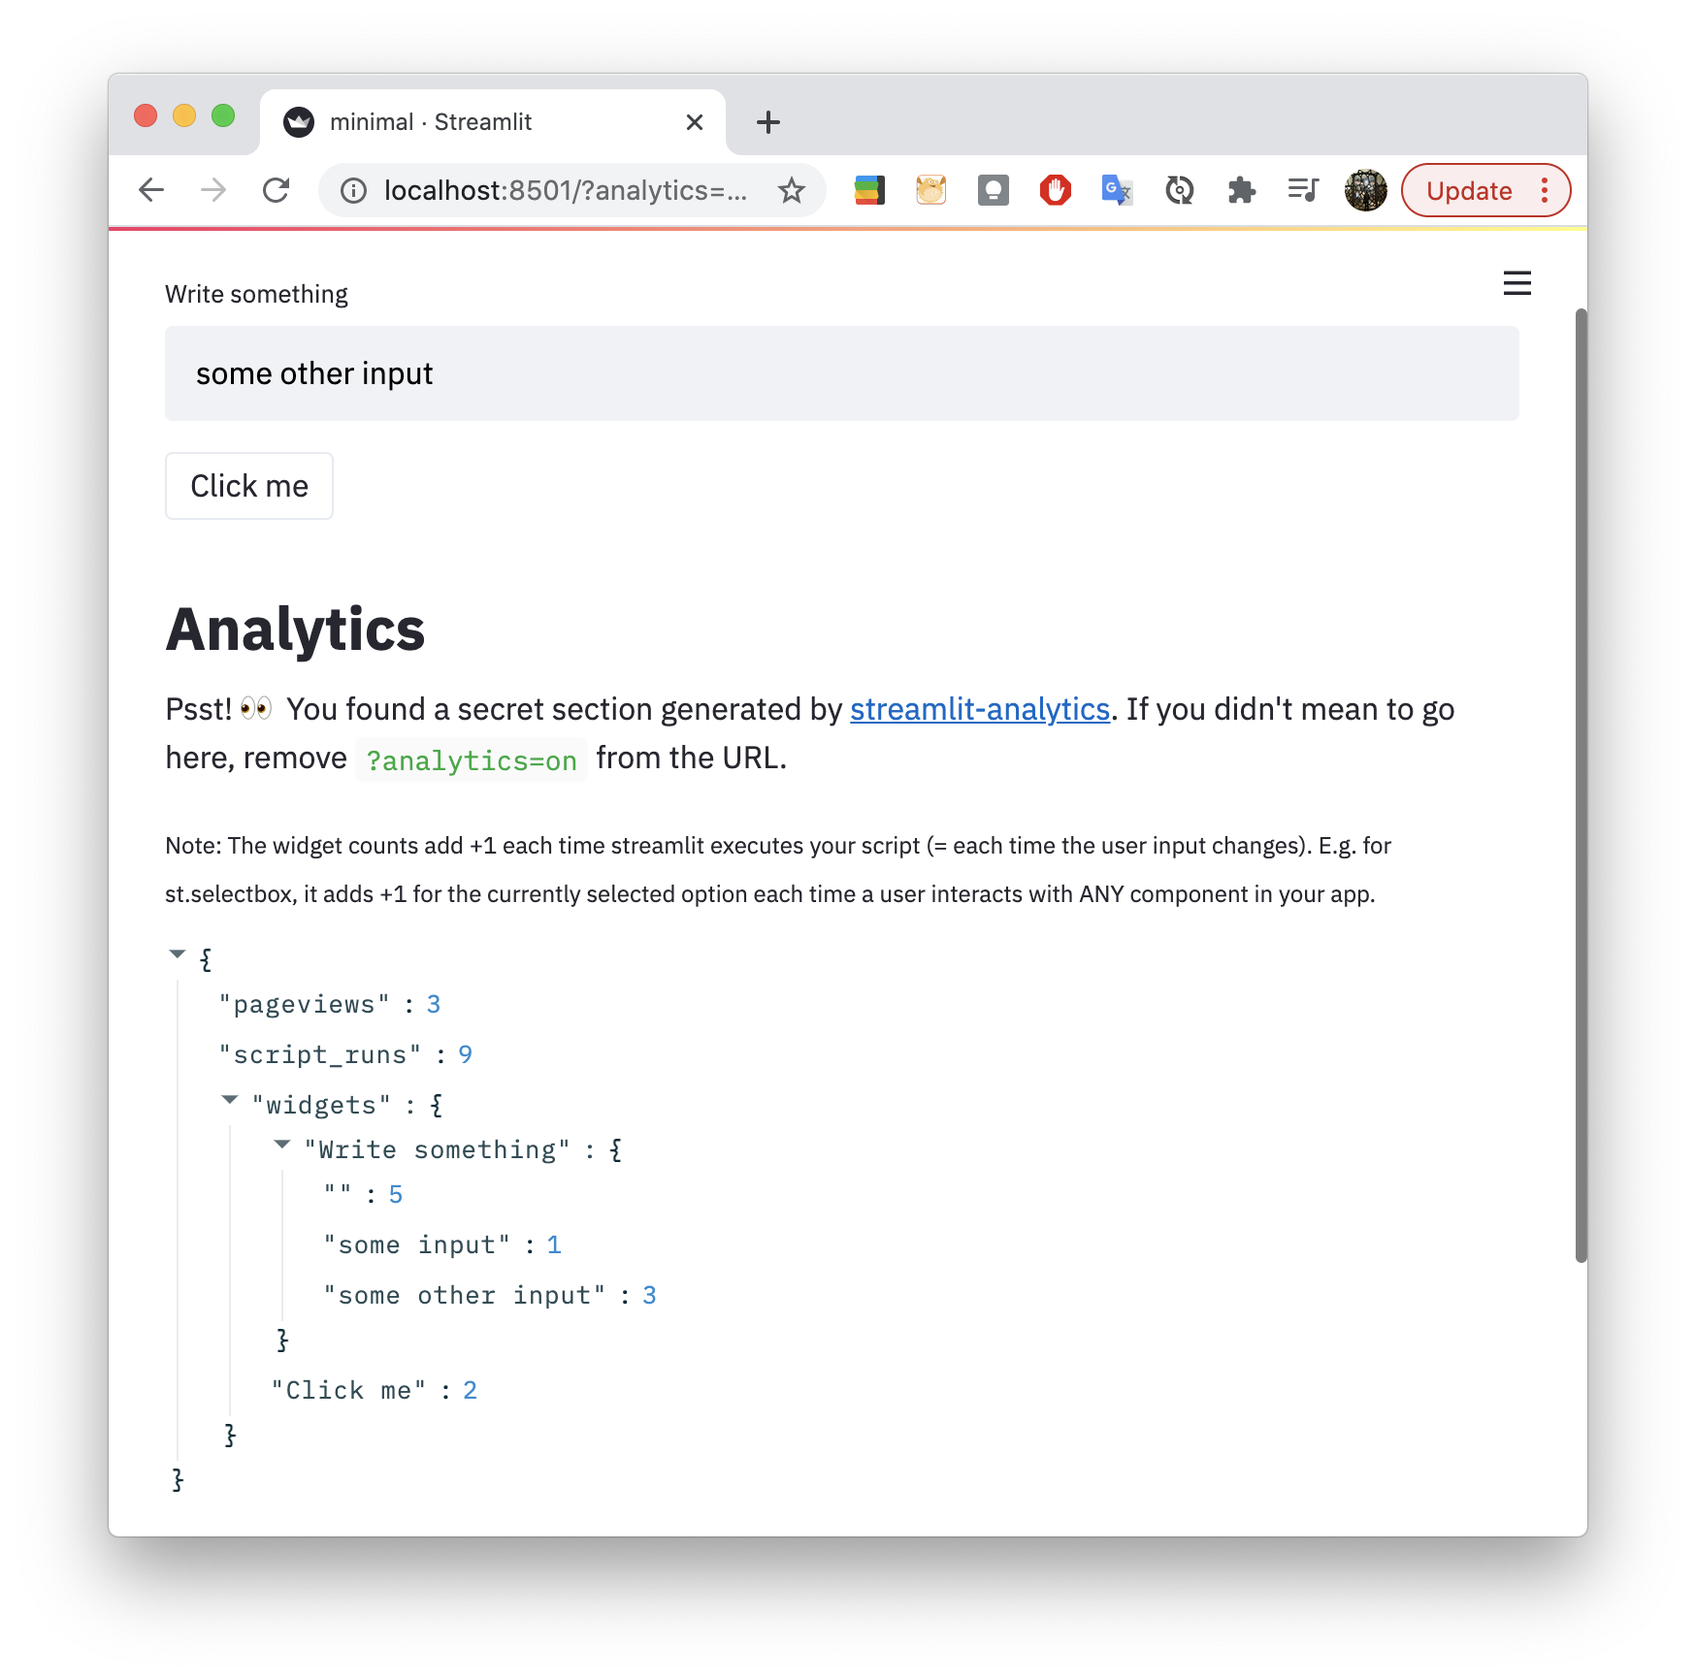
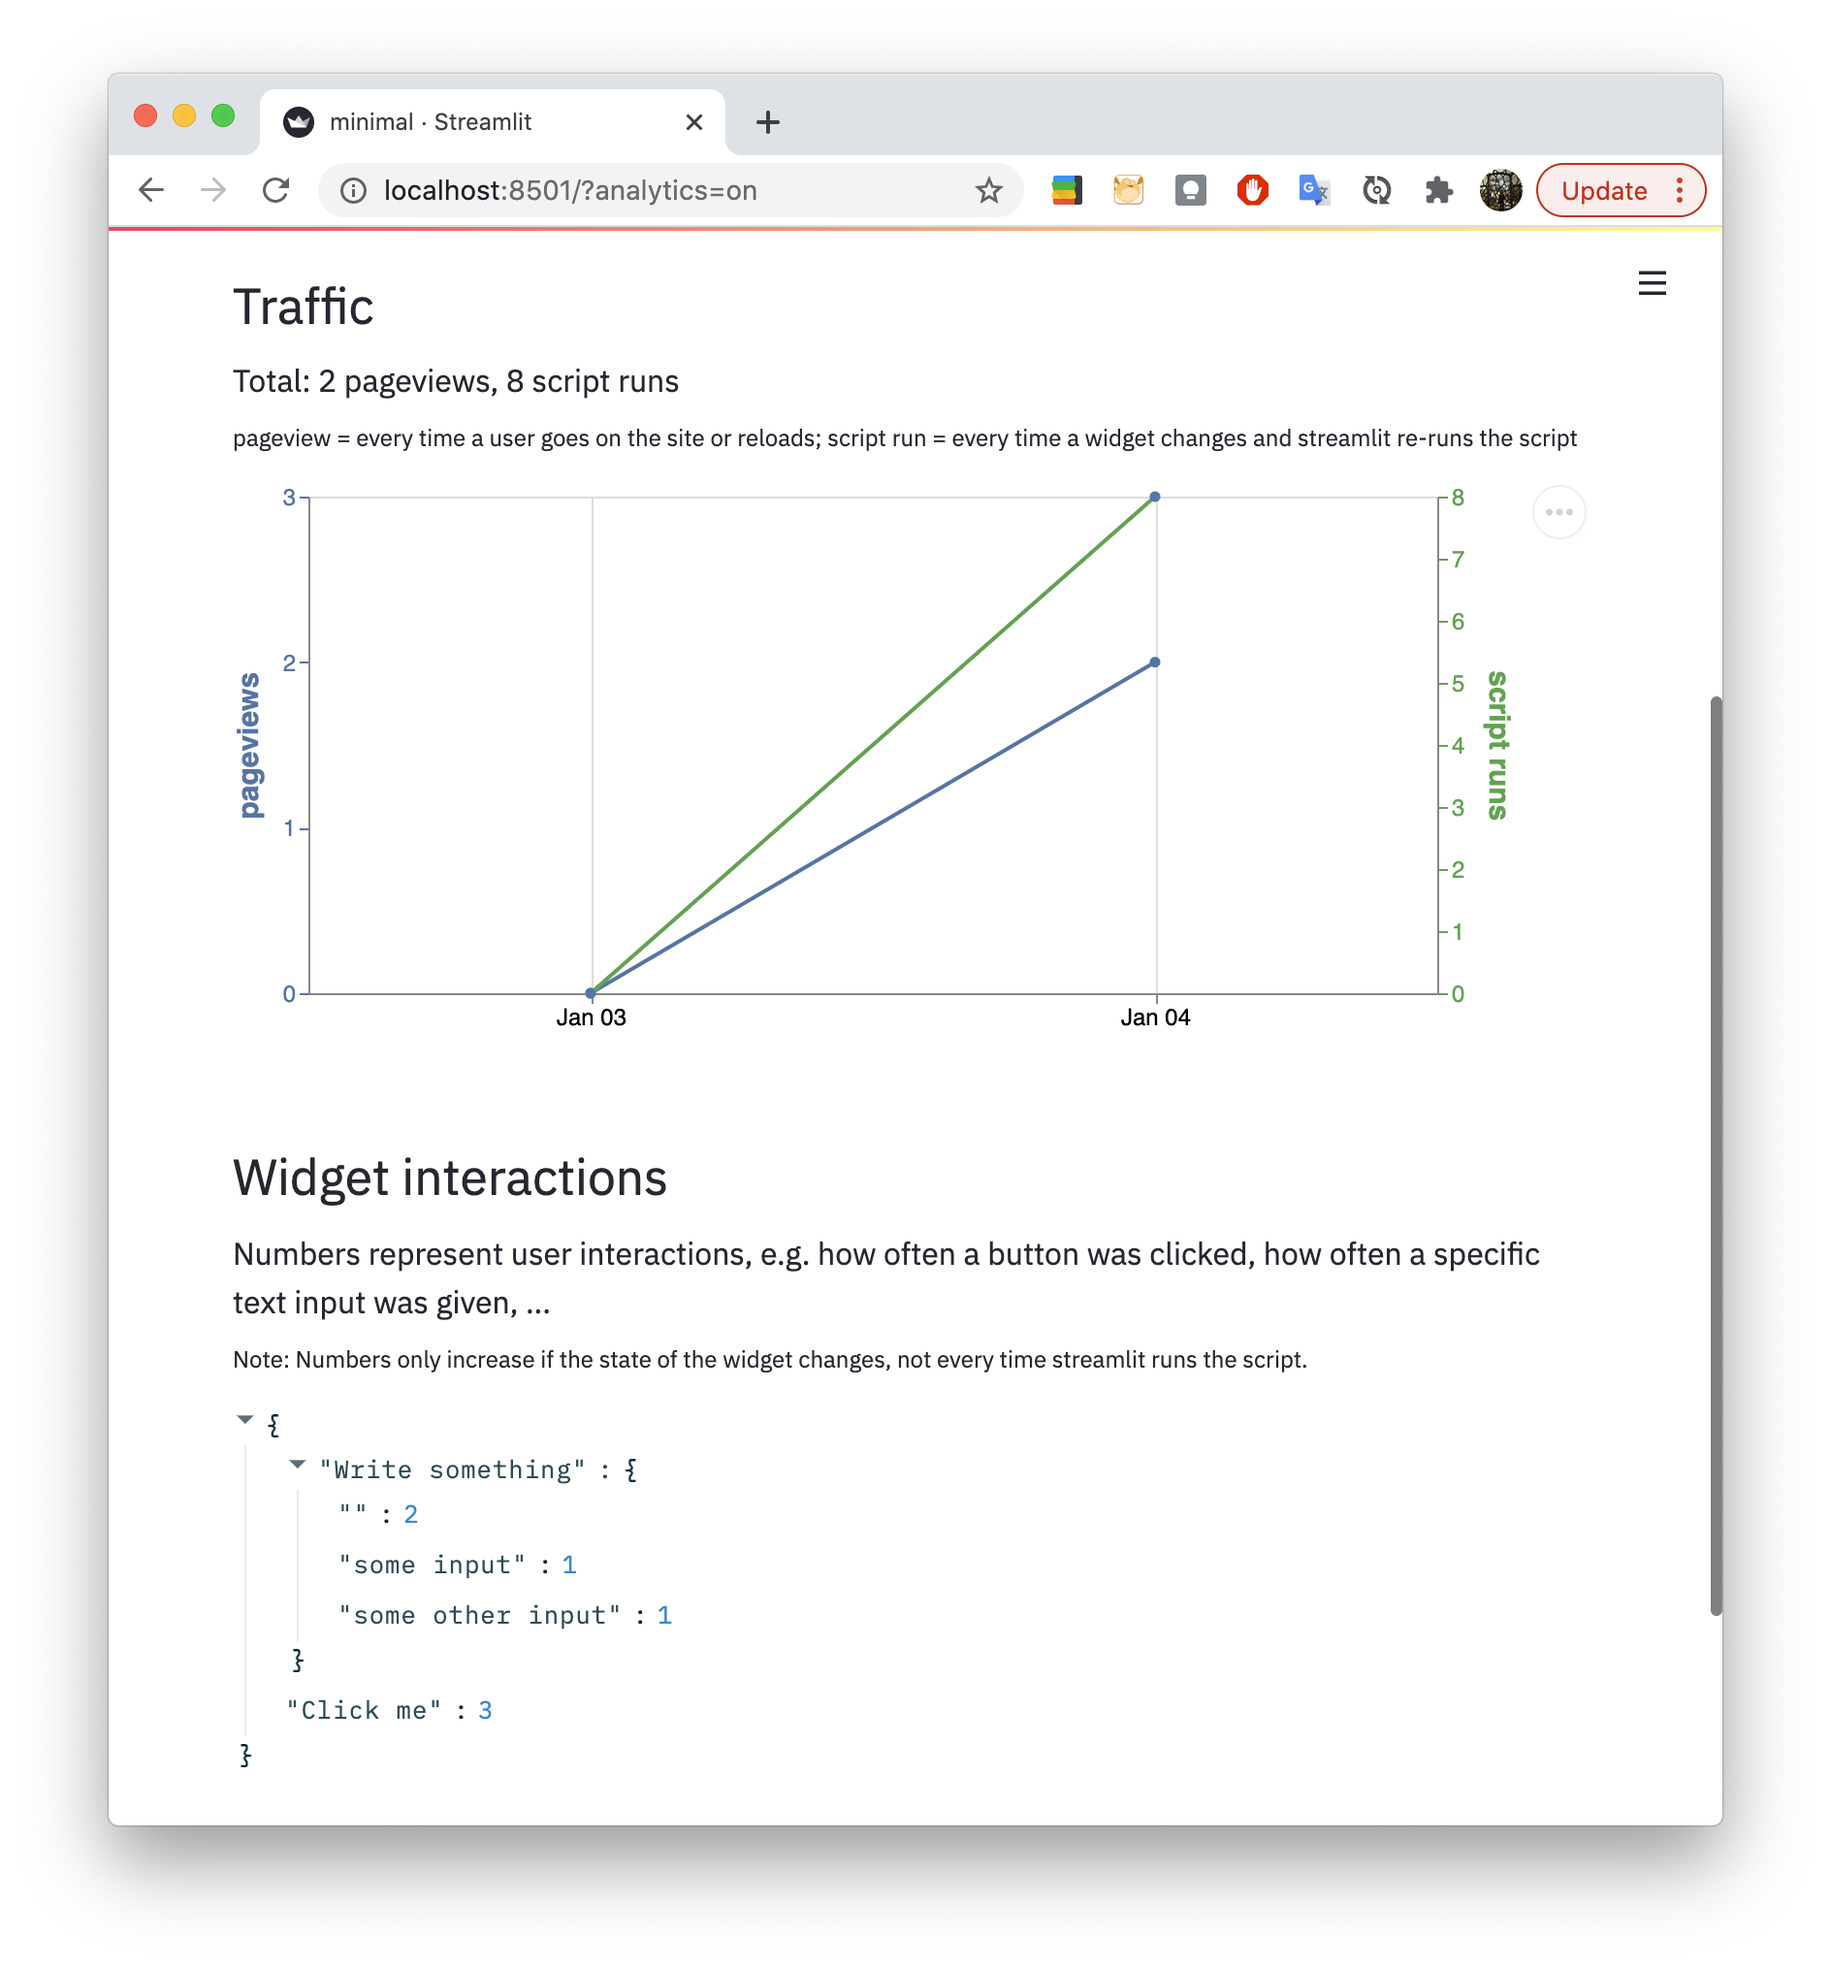
Style plot and labels

diff --git a/streamlit_analytics/main.py b/streamlit_analytics/main.py
@@ -354,7 +354,13 @@ def stop_tracking(
 
             st.header("Traffic")
             st.write(
-                f"**Total:** {counts['total_pageviews']} pageviews, {counts['total_script_runs']} script runs"
+                f"""
+                Total: {counts['total_pageviews']} pageviews, {counts['total_script_runs']} script runs
+                <br>
+                <sub>pageview = every time a user goes on the site or reloads; 
+                script run = every time a widget changes and streamlit re-runs the script</sub>
+                """,
+                unsafe_allow_html=True
             )
 
             # Plot chart with pageviews.
@@ -365,25 +371,44 @@ def stop_tracking(
             line1 = base.mark_line(point=True, stroke="#5276A7").encode(
                 alt.Y(
                     "pageviews:Q",
-                    axis=alt.Axis(titleColor="#5276A7", format=".0f", tickMinStep=1),
+                    axis=alt.Axis(
+                        titleColor="#5276A7",
+                        tickColor="#5276A7",
+                        labelColor="#5276A7",
+                        format=".0f",
+                        tickMinStep=1,
+                    ),
                     scale=alt.Scale(domain=(0, df["pageviews"].max() + 1)),
                 )
             )
             line2 = base.mark_line(point=True, stroke="#57A44C").encode(
                 alt.Y(
                     "script_runs:Q",
-                    axis=alt.Axis(titleColor="#57A44C", format=".0f", tickMinStep=1),
+                    axis=alt.Axis(
+                        title="script runs",
+                        titleColor="#57A44C",
+                        tickColor="#57A44C",
+                        labelColor="#57A44C",
+                        format=".0f",
+                        tickMinStep=1,
+                    ),
                 )
             )
-            layer = alt.layer(line1, line2).resolve_scale(y="independent")
+            layer = (
+                alt.layer(line1, line2)
+                .resolve_scale(y="independent")
+                .configure_axis(titleFontSize=15, labelFontSize=12, titlePadding=10)
+            )
             st.altair_chart(layer, use_container_width=True)
 
             st.header("Widget interactions")
             st.markdown(
                 """
                 Numbers represent user interactions, e.g. how often a button was 
-                clicked. Note that they only increase when the state of the widget
-                changes, not every time streamlit runs the script.
+                clicked, how often a specific text input was given, ...
+                <br>
+                <sub>Note: Numbers only increase if the state of the widget
+                changes, not every time streamlit runs the script.</sub>
                 """,
                 unsafe_allow_html=True,
             )
